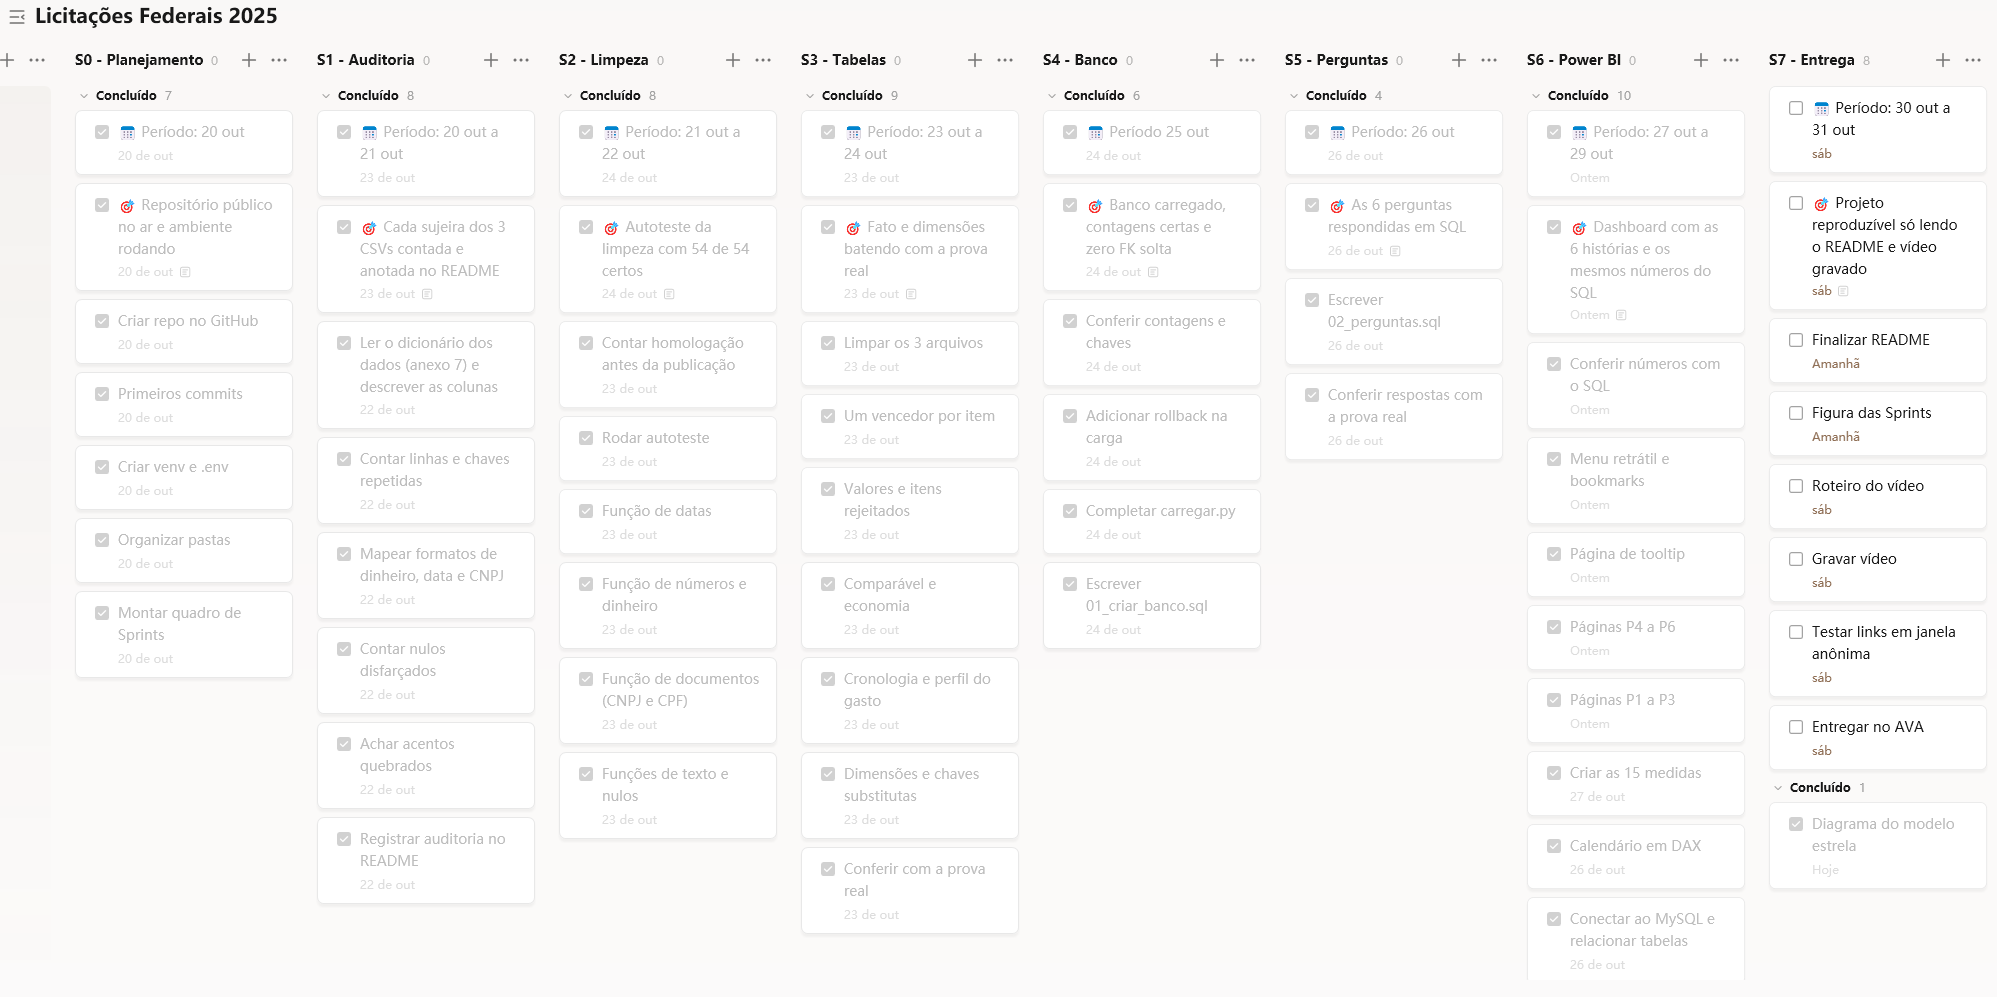
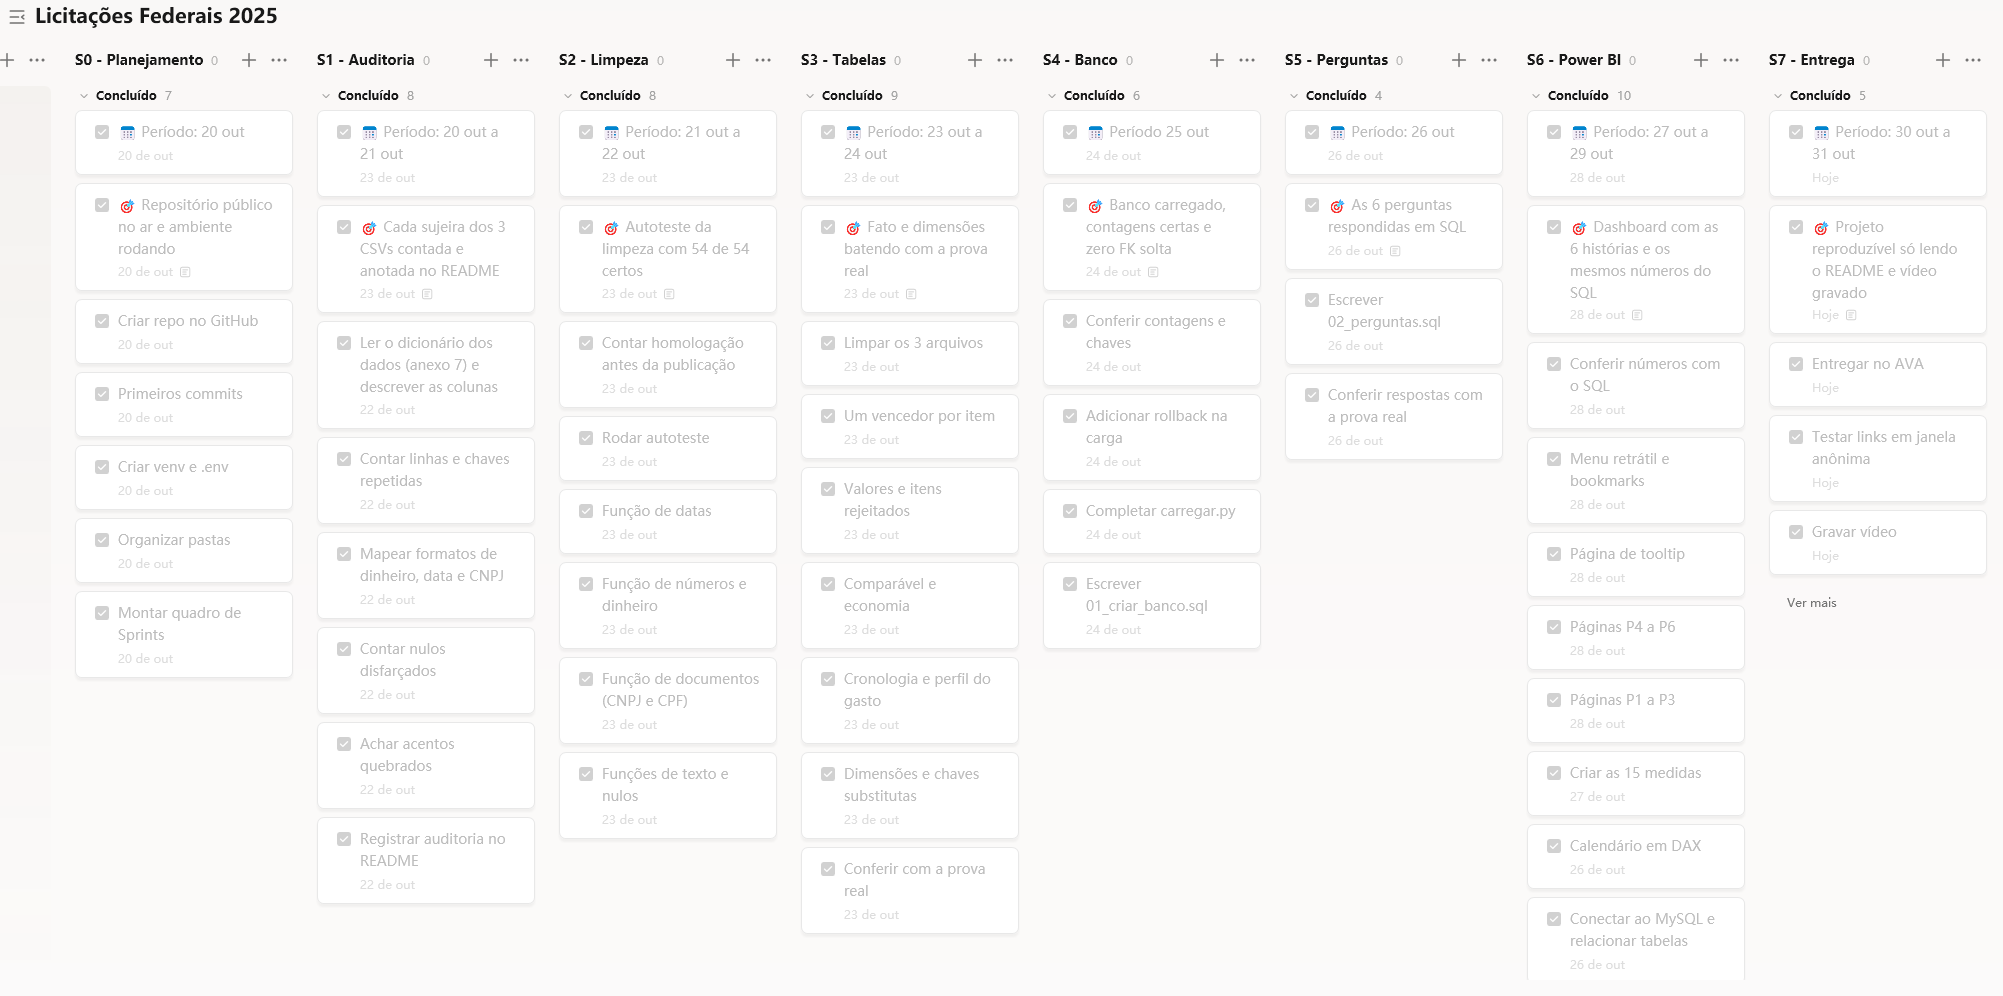
README: link do vídeo e Sprints atualizadas com a S7

diff --git a/README.md b/README.md
@@ -1,6 +1,5 @@
 # Licitações Federais 2025: pipeline de dados e data warehouse de compras públicas
 
-> * Falta apenas o vídeo de apresentação, que será incluído na seção Vídeo.
 
 ## Contexto
 
@@ -338,7 +337,7 @@ A ferramenta utilizada para as Sprints é o TickTick, em quadro Kanban.
 
 ## Vídeo
 
-*(em construção)*
+https://drive.google.com/file/d/1jNte_yoHv3DUoKX2taBXY5c3K4OT_FbI/view?usp=sharing 
 
 ## Fonte dos dados
 
